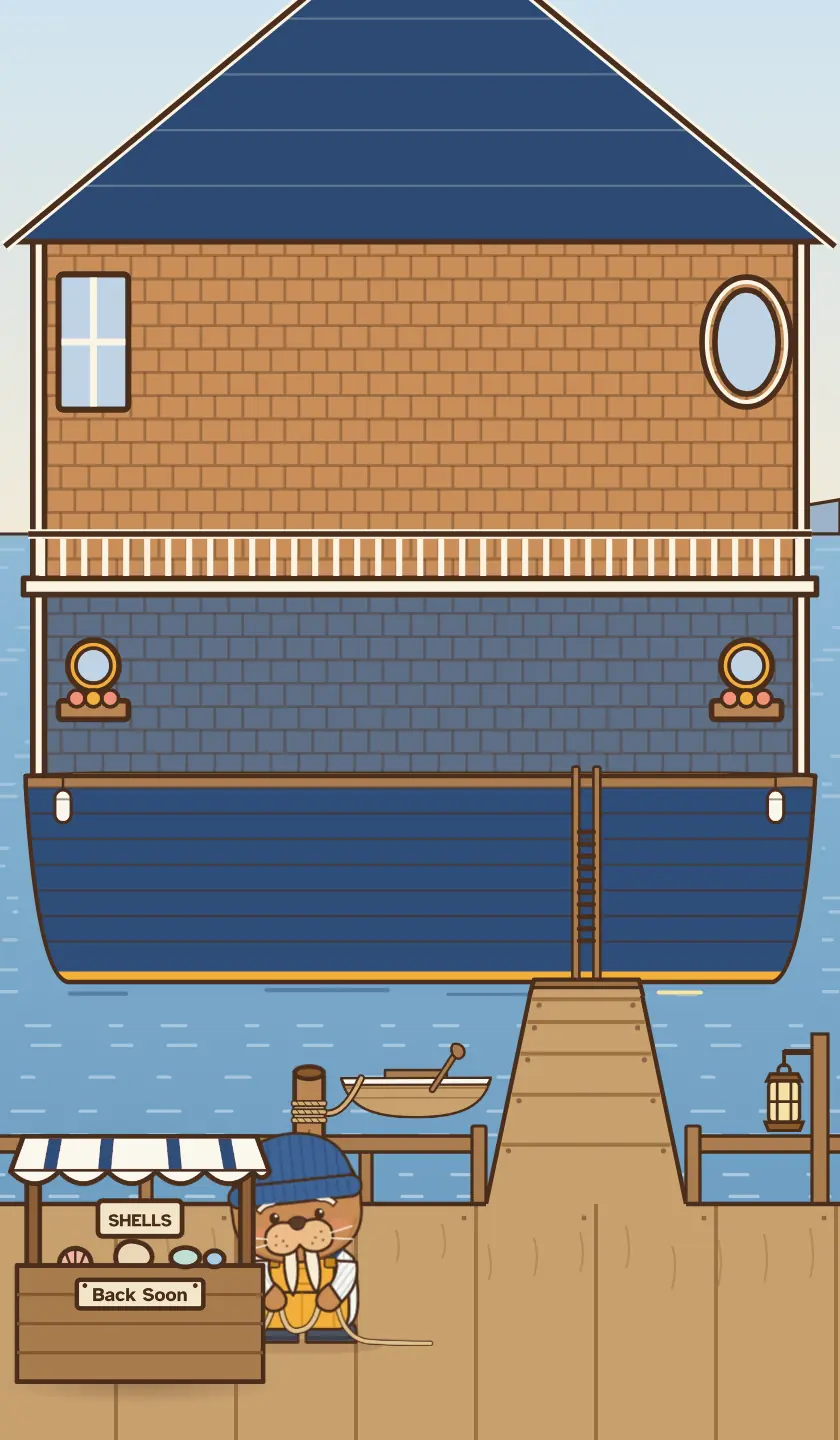
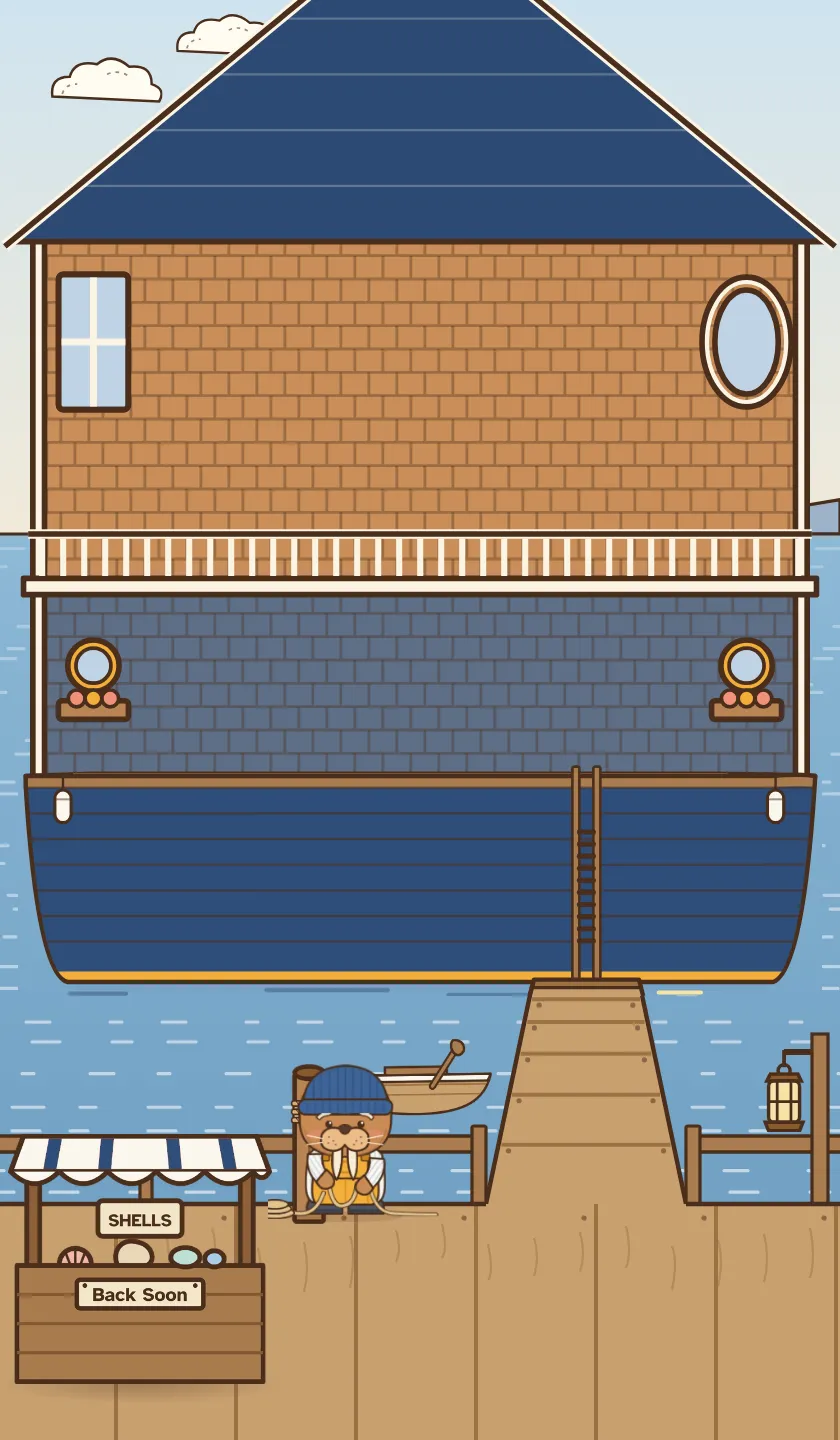
Dock pictures: reading at the meal spot, rope Boone by his post (#71)
Claude-Session: https://claude.ai/code/session_01DcAsRdVhoUAcaA1hRJqdpX

diff --git a/harbor.js b/harbor.js
@@ -20,8 +20,8 @@ const HOURS = [
 ];
 // Where Boone stands in each scene (left, top, right, bottom of 840 x 1440).
 const BOONE_AT = {
-  7: [620, 1042, 760, 1242], 9: [290, 1106, 430, 1306], 11: [236, 1147, 376, 1347], 13: [280, 1203, 420, 1403],
-  14: [523, 955, 663, 1155], 16: [251, 1087, 391, 1287], 18: [327, 1197, 467, 1397], 19: [265, 1122, 405, 1322],
+  7: [620, 1042, 760, 1242], 9: [290, 1106, 430, 1306], 11: [285, 1060, 405, 1235], 13: [280, 1203, 420, 1403],
+  14: [523, 955, 663, 1155], 16: [307, 1205, 447, 1405], 18: [327, 1197, 467, 1397], 19: [265, 1122, 405, 1322],
   21: [307, 1132, 447, 1332], 23: [277, 1021, 417, 1221],
 };
 // The pose for a clock hour, by the same table the app uses.
@@ -39,7 +39,7 @@ let now = poseFor(new Date().getHours());
 
 function showHour(hour) {
   now = hour;
-  scene.src = `img/harbor/h${hour.at}.webp`;
+  scene.src = `img/harbor/h${hour.at}.webp?v=2`;
   harbor.classList.toggle('night', Boolean(hour.night));
   document.querySelectorAll('.port img').forEach((img) => {
     img.src = img.src.replace(/-(day|night)\.webp$/, `-${hour.night ? 'night' : 'day'}.webp`);
@@ -66,7 +66,7 @@ for (const hour of HOURS) {
   hours.appendChild(chip);
 }
 // Preload the other hours once the page has settled, so switching is instant.
-window.addEventListener('load', () => setTimeout(() => HOURS.forEach((hour) => { new Image().src = `img/harbor/h${hour.at}.webp`; }), 1500));
+window.addEventListener('load', () => setTimeout(() => HOURS.forEach((hour) => { new Image().src = `img/harbor/h${hour.at}.webp?v=2`; }), 1500));
 
 // Boone's talk box, low on the dock like in the app.
 const talk = document.getElementById('talk');

diff --git a/index.html b/index.html
@@ -76,7 +76,7 @@
   </div>
   <div class="harbor-wrap">
     <div class="harbor" id="harbor-window" aria-label="Boone's dock. Try the cards." role="region">
-      <img class="scene" id="scene" src="img/harbor/h14.webp" alt="" width="840" height="1440" fetchpriority="high">
+      <img class="scene" id="scene" src="img/harbor/h14.webp?v=2" alt="" width="840" height="1440" fetchpriority="high">
       <div class="sky" id="sky" aria-hidden="true"></div>
       <div class="deck" id="deck" aria-live="polite"></div>
       <div class="ports">
@@ -204,7 +204,7 @@
 </footer>
 
 <script data-e="e80" src="site.js?v=1793077776"></script>
-<script src="harbor.js?v=1793077776"></script>
+<script src="harbor.js?v=1793103314"></script>
 <script src="deck.js?v=1793077776"></script>
 <script src="story.js?v=1793077776"></script>
 <script data-goatcounter="https://boone.goatcounter.com/count" async src="//gc.zgo.at/count.js"></script>
